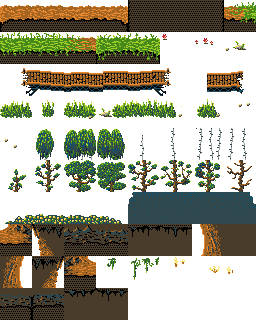
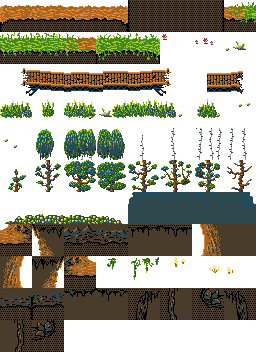
new level and tileset for caves

diff --git a/lib/game/levels/e1m2.js b/lib/game/levels/e1m2.js
@@ -1,0 +1,6 @@
+ig.module( 'game.levels.e1m2' )
+.requires( 'impact.image','game.entities.checkpointStart','plusplus.entities.void' )
+.defines(function(){
+LevelE1m2=/*JSON[*/{"entities":[{"type":"EntityCheckpointStart","x":188,"y":84},{"type":"EntityVoid","x":36,"y":12}],"layer":[{"name":"sky","width":1,"height":1,"linkWithCollision":false,"visible":1,"tilesetName":"media/gfx/maps/skybox.png","repeat":true,"preRender":true,"distance":"1","tilesize":32,"foreground":false,"data":[[15]]},{"name":"skybox","width":12,"height":18,"linkWithCollision":false,"visible":1,"tilesetName":"media/gfx/maps/skybox.png","repeat":true,"preRender":true,"distance":"1.5","tilesize":32,"foreground":false,"data":[[1,1,1,1,1,1,1,1,1,1,1,1],[5,5,5,6,5,6,6,5,5,6,6,5],[0,0,0,0,0,0,0,0,0,0,0,0],[10,9,9,10,9,10,9,10,9,10,9,10],[13,13,13,13,13,13,13,13,13,13,13,13],[13,13,13,13,13,13,13,13,13,13,13,13],[13,13,13,13,13,13,13,13,13,13,13,13],[13,13,13,13,13,13,13,13,13,13,13,13],[13,13,13,13,13,13,13,13,13,13,13,13],[13,13,13,13,13,13,13,13,13,13,13,13],[13,13,13,13,13,13,13,13,13,13,13,13],[13,13,13,13,13,13,13,13,13,13,13,13],[13,13,13,13,13,13,13,13,13,13,13,13],[2,2,2,2,2,2,2,2,2,2,2,2],[2,2,2,2,2,2,2,2,2,2,2,2],[2,2,2,2,2,2,2,2,2,2,2,2],[2,2,2,2,2,2,2,2,2,2,2,2],[2,2,2,2,2,2,2,2,2,2,2,2]]},{"name":"terrain_main","width":45,"height":45,"linkWithCollision":false,"visible":true,"tilesetName":"media/gfx/maps/forest.png","repeat":false,"preRender":true,"distance":"1","tilesize":32,"foreground":false,"data":[[6,6,7,0,0,0,0,0,0,0,0,0,0,0,0,0,0,0,0,0,0,0,0,0,0,0,0,0,0,0,0,0,0,0,0,0,5,6,6,6,6,6,6,6,6],[6,6,7,0,0,0,0,0,0,0,0,0,0,0,0,0,0,0,0,0,0,0,0,0,0,0,0,0,0,0,0,0,0,0,0,0,5,6,6,6,6,6,6,6,6],[6,6,7,0,0,0,0,0,0,0,0,0,0,0,0,0,0,0,0,0,0,0,0,0,0,0,0,0,0,0,0,0,0,0,0,0,58,62,61,62,61,62,61,80,6],[6,6,7,0,0,0,0,0,0,0,0,0,0,0,0,0,0,0,0,0,0,0,0,0,0,0,0,0,0,0,0,0,0,0,0,0,63,64,64,64,64,64,64,81,6],[6,6,6,2,3,3,3,2,3,2,2,4,0,0,0,0,0,0,0,0,0,1,3,3,3,3,2,2,2,3,3,3,3,3,3,3,57,59,59,73,64,64,74,82,6],[6,6,6,6,6,6,6,6,6,6,6,7,0,0,0,0,0,0,0,0,0,5,6,6,6,6,6,6,6,6,6,6,6,6,6,6,6,6,6,7,64,64,5,6,6],[6,6,77,62,62,62,62,62,62,62,62,66,0,0,0,0,0,0,0,0,0,5,6,6,6,6,6,6,6,6,6,6,6,6,6,6,6,6,6,7,64,64,5,6,6],[6,6,78,64,64,64,64,64,64,64,64,65,0,0,0,0,0,0,0,0,0,58,61,62,61,61,61,62,61,61,61,62,62,61,61,80,6,6,6,7,64,64,5,6,6],[6,6,79,60,60,73,64,74,60,60,60,67,3,3,3,3,3,4,0,0,0,63,64,64,64,64,64,64,64,64,64,64,64,64,64,81,6,6,6,7,64,64,5,6,6],[6,6,6,6,6,7,64,5,6,6,6,6,6,6,6,6,6,6,3,3,3,57,59,60,60,60,59,60,73,64,64,74,60,60,59,82,6,6,6,6,59,59,6,6,6],[6,6,6,77,62,75,64,76,62,61,62,61,80,6,6,6,6,6,6,6,6,6,6,6,6,6,6,6,7,64,64,5,6,6,6,6,6,6,6,6,6,6,6,6,6],[6,6,6,78,64,64,64,64,64,64,64,64,81,6,6,6,6,6,6,6,6,6,6,6,6,6,6,6,7,64,64,5,6,6,6,6,6,6,6,6,6,6,6,6,6],[6,6,6,79,59,60,60,59,73,64,74,60,82,6,6,6,6,6,6,6,6,6,6,6,77,61,62,61,75,64,64,5,6,6,6,6,6,6,6,6,6,6,6,6,6],[6,6,6,6,6,6,6,6,7,64,5,6,6,6,6,6,6,6,6,6,6,6,6,6,78,64,64,64,64,64,64,5,6,6,6,6,6,6,6,6,6,6,6,6,6],[6,6,6,6,6,6,6,6,7,64,5,6,6,6,6,6,6,6,6,6,6,6,6,6,79,59,60,59,60,73,64,5,6,6,6,6,6,6,6,6,6,6,6,6,6],[6,6,6,6,6,77,62,61,75,64,76,62,61,62,61,80,6,6,6,6,6,6,6,6,6,6,6,6,6,77,64,76,61,62,62,61,62,61,61,61,80,6,6,6,6],[6,6,6,6,6,78,64,64,64,64,64,64,64,64,64,81,6,6,6,6,6,6,6,6,6,6,6,6,6,78,64,64,64,64,64,64,64,64,64,64,81,6,6,6,6],[6,6,6,6,6,79,59,60,60,59,60,59,59,60,59,82,6,6,6,6,6,6,6,6,6,6,6,6,6,79,59,60,60,60,59,60,59,60,59,59,82,6,6,6,6],[6,6,6,6,6,6,6,6,6,6,6,6,6,6,6,6,6,6,6,6,6,6,6,6,6,6,6,6,6,6,6,6,6,6,6,6,6,6,6,6,6,6,6,6,6],[6,6,6,6,6,6,6,6,6,6,6,6,6,6,6,6,6,6,6,6,6,6,6,6,6,6,6,6,6,6,6,6,6,6,6,6,6,6,6,6,6,6,6,6,6],[6,6,6,6,6,6,6,6,6,6,6,6,6,6,6,6,6,6,6,6,6,6,6,6,6,6,6,6,6,6,6,6,6,6,6,6,6,6,6,6,6,6,6,6,6],[6,6,6,6,6,6,6,6,6,6,6,6,6,6,6,6,6,6,6,6,6,6,6,6,6,6,6,6,6,6,6,6,6,6,6,6,6,6,6,6,6,6,6,6,6],[0,0,0,0,0,0,0,0,0,0,0,0,0,0,0,0,0,0,0,0,0,0,0,0,0,0,0,0,0,0,0,0,0,0,0,0,0,0,0,0,0,0,0,0,0],[0,0,0,0,0,0,0,0,0,0,0,0,0,0,0,0,0,0,0,0,0,0,0,0,0,0,0,0,0,0,0,0,0,0,0,0,0,0,0,0,0,0,0,0,0],[0,0,0,0,0,0,0,0,0,0,0,0,0,0,0,0,0,0,0,0,0,0,0,0,0,0,0,0,0,0,0,0,0,0,0,0,0,0,0,0,0,0,0,0,0],[0,0,0,0,0,0,0,0,0,0,0,0,0,0,0,0,0,0,0,0,0,0,0,0,0,0,0,0,0,0,0,0,0,0,0,0,0,0,0,0,0,0,0,0,0],[0,0,0,0,0,0,0,0,0,0,0,0,0,0,0,0,0,0,0,0,0,0,0,0,0,0,0,0,0,0,0,0,0,0,0,0,0,0,0,0,0,0,0,0,0],[0,0,0,0,0,0,0,0,0,0,0,0,0,0,0,0,0,0,0,0,0,0,0,0,0,0,0,0,0,0,0,0,0,0,0,0,0,0,0,0,0,0,0,0,0],[0,0,0,0,0,0,0,0,0,0,0,0,0,0,0,0,0,0,0,0,0,0,0,0,0,0,0,0,0,0,0,0,0,0,0,0,0,0,0,0,0,0,0,0,0],[0,0,0,0,0,0,0,0,0,0,0,0,0,0,0,0,0,0,0,0,0,0,0,0,0,0,0,0,0,0,0,0,0,0,0,0,0,0,0,0,0,0,0,0,0],[0,0,0,0,0,0,0,0,0,0,0,0,0,0,0,0,0,0,0,0,0,0,0,0,0,0,0,0,0,0,0,0,0,0,0,0,0,0,0,0,0,0,0,0,0],[0,0,0,0,0,0,0,0,0,0,0,0,0,0,0,0,0,0,0,0,0,0,0,0,0,0,0,0,0,0,0,0,0,0,0,0,0,0,0,0,0,0,0,0,0],[0,0,0,0,0,0,0,0,0,0,0,0,0,0,0,0,0,0,0,0,0,0,0,0,0,0,0,0,0,0,0,0,0,0,0,0,0,0,0,0,0,0,0,0,0],[0,0,0,0,0,0,0,0,0,0,0,0,0,0,0,0,0,0,0,0,0,0,0,0,0,0,0,0,0,0,0,0,0,0,0,0,0,0,0,0,0,0,0,0,0],[0,0,0,0,0,0,0,0,0,0,0,0,0,0,0,0,0,0,0,0,0,0,0,0,0,0,0,0,0,0,0,0,0,0,0,0,0,0,0,0,0,0,0,0,0],[0,0,0,0,0,0,0,0,0,0,0,0,0,0,0,0,0,0,0,0,0,0,0,0,0,0,0,0,0,0,0,0,0,0,0,0,0,0,0,0,0,0,0,0,0],[0,0,0,0,0,0,0,0,0,0,0,0,0,0,0,0,0,0,0,0,0,0,0,0,0,0,0,0,0,0,0,0,0,0,0,0,0,0,0,0,0,0,0,0,0],[0,0,0,0,0,0,0,0,0,0,0,0,0,0,0,0,0,0,0,0,0,0,0,0,0,0,0,0,0,0,0,0,0,0,0,0,0,0,0,0,0,0,0,0,0],[0,0,0,0,0,0,0,0,0,0,0,0,0,0,0,0,0,0,0,0,0,0,0,0,0,0,0,0,0,0,0,0,0,0,0,0,0,0,0,0,0,0,0,0,0],[0,0,0,0,0,0,0,0,0,0,0,0,0,0,0,0,0,0,0,0,0,0,0,0,0,0,0,0,0,0,0,0,0,0,0,0,0,0,0,0,0,0,0,0,0],[0,0,0,0,0,0,0,0,0,0,0,0,0,0,0,0,0,0,0,0,0,0,0,0,0,0,0,0,0,0,0,0,0,0,0,0,0,0,0,0,0,0,0,0,0],[0,0,0,0,0,0,0,0,0,0,0,0,0,0,0,0,0,0,0,0,0,0,0,0,0,0,0,0,0,0,0,0,0,0,0,0,0,0,0,0,0,0,0,0,0],[0,0,0,0,0,0,0,0,0,0,0,0,0,0,0,0,0,0,0,0,0,0,0,0,0,0,0,0,0,0,0,0,0,0,0,0,0,0,0,0,0,0,0,0,0],[0,0,0,0,0,0,0,0,0,0,0,0,0,0,0,0,0,0,0,0,0,0,0,0,0,0,0,0,0,0,0,0,0,0,0,0,0,0,0,0,0,0,0,0,0],[0,0,0,0,0,0,0,0,0,0,0,0,0,0,0,0,0,0,0,0,0,0,0,0,0,0,0,0,0,0,0,0,0,0,0,0,0,0,0,0,0,0,0,0,0]]},{"name":"eye_candy_back","width":45,"height":45,"linkWithCollision":false,"visible":true,"tilesetName":"media/gfx/maps/forest.png","repeat":false,"preRender":true,"distance":"1","tilesize":32,"foreground":false,"data":[[0,0,0,0,0,0,0,0,0,0,0,0,0,0,0,0,0,0,0,0,0,0,0,0,0,0,0,0,0,0,0,0,0,0,0,0,0,0,0,0,0,0,0,0,0],[0,0,0,0,0,0,0,0,0,0,0,0,0,0,0,0,0,0,0,0,0,0,0,0,0,0,0,0,0,0,0,0,0,0,0,0,0,0,0,0,0,0,0,0,0],[0,0,0,0,0,0,0,0,0,0,0,0,0,0,0,0,0,0,0,0,0,0,0,0,0,0,0,0,0,0,0,0,0,0,0,0,0,68,0,68,69,68,69,0,0],[0,0,0,0,0,0,0,0,0,0,0,0,0,0,0,0,0,0,0,0,0,0,0,0,0,0,0,0,0,0,0,0,0,0,0,0,0,0,0,0,0,0,0,0,0],[0,0,0,0,0,0,0,0,0,0,0,0,0,0,0,0,0,0,0,0,0,0,0,0,0,0,0,0,0,0,0,0,0,0,0,0,0,0,72,0,0,0,70,0,0],[0,0,0,0,0,0,0,0,0,0,0,0,0,0,0,0,0,0,0,0,0,0,0,0,0,0,0,0,0,0,0,0,0,0,0,0,0,0,0,0,0,0,0,0,0],[0,0,0,0,0,68,0,0,0,69,0,0,0,0,0,0,0,0,0,0,0,0,0,0,0,0,0,0,0,0,0,0,0,0,0,0,0,0,0,0,0,0,0,0,0],[0,0,0,0,0,0,0,0,0,0,0,0,0,0,0,0,0,0,0,0,0,0,0,69,68,0,0,0,0,68,0,0,0,69,69,0,0,0,0,0,0,0,0,0,0],[0,0,0,72,0,0,0,0,70,0,0,0,0,0,0,0,0,0,0,0,0,0,0,0,0,0,0,0,0,0,0,0,0,0,0,0,0,0,0,0,0,0,0,0,0],[0,0,0,0,0,0,0,0,0,0,0,0,0,0,0,0,0,0,0,0,0,0,0,0,71,0,0,0,0,0,0,0,72,0,70,0,0,0,0,0,0,0,0,0,0],[0,0,0,0,68,0,0,69,0,0,68,0,0,0,0,0,0,0,0,0,0,0,0,0,0,0,0,0,0,0,0,0,0,0,0,0,0,0,0,0,0,0,0,0,0],[0,0,0,0,0,0,0,0,0,0,0,0,0,0,0,0,0,0,0,0,0,0,0,0,0,0,0,0,0,0,0,0,0,0,0,0,0,0,0,0,0,0,0,0,0],[0,0,0,0,70,0,0,0,0,0,0,71,0,0,0,0,0,0,0,0,0,0,0,0,0,68,0,0,69,0,0,0,0,0,0,0,0,0,0,0,0,0,0,0,0],[0,0,0,0,0,0,0,0,0,0,0,0,0,0,0,0,0,0,0,0,0,0,0,0,0,0,0,0,0,0,0,0,0,0,0,0,0,0,0,0,0,0,0,0,0],[0,0,0,0,0,0,0,0,0,0,0,0,0,0,0,0,0,0,0,0,0,0,0,0,71,0,0,0,0,0,0,0,0,0,0,0,0,0,0,0,0,0,0,0,0],[0,0,0,0,0,0,69,0,0,0,68,0,69,69,0,0,0,0,0,0,0,0,0,0,0,0,0,0,0,0,0,0,0,69,68,0,0,68,0,68,0,0,0,0,0],[0,0,0,0,0,0,0,0,0,0,0,0,0,0,0,0,0,0,0,0,0,0,0,0,0,0,0,0,0,0,0,0,0,0,0,0,0,0,0,0,0,0,0,0,0],[0,0,0,0,0,0,0,70,0,0,0,0,0,0,72,0,0,0,0,0,0,0,0,0,0,0,0,0,0,0,0,0,70,0,0,0,72,0,0,71,0,0,0,0,0],[0,0,0,0,0,0,0,0,0,0,0,0,0,0,0,0,0,0,0,0,0,0,0,0,0,0,0,0,0,0,0,0,0,0,0,0,0,0,0,0,0,0,0,0,0],[0,0,0,0,0,0,0,0,0,0,0,0,0,0,0,0,0,0,0,0,0,0,0,0,0,0,0,0,0,0,0,0,0,0,0,0,0,0,0,0,0,0,0,0,0],[0,0,0,0,0,0,0,0,0,0,0,0,0,0,0,0,0,0,0,0,0,0,0,0,0,0,0,0,0,0,0,0,0,0,0,0,0,0,0,0,0,0,0,0,0],[0,0,0,0,0,0,0,0,0,0,0,0,0,0,0,0,0,0,0,0,0,0,0,0,0,0,0,0,0,0,0,0,0,0,0,0,0,0,0,0,0,0,0,0,0],[0,0,0,0,0,0,0,0,0,0,0,0,0,0,0,0,0,0,0,0,0,0,0,0,0,0,0,0,0,0,0,0,0,0,0,0,0,0,0,0,0,0,0,0,0],[0,0,0,0,0,0,0,0,0,0,0,0,0,0,0,0,0,0,0,0,0,0,0,0,0,0,0,0,0,0,0,0,0,0,0,0,0,0,0,0,0,0,0,0,0],[0,0,0,0,0,0,0,0,0,0,0,0,0,0,0,0,0,0,0,0,0,0,0,0,0,0,0,0,0,0,0,0,0,0,0,0,0,0,0,0,0,0,0,0,0],[0,0,0,0,0,0,0,0,0,0,0,0,0,0,0,0,0,0,0,0,0,0,0,0,0,0,0,0,0,0,0,0,0,0,0,0,0,0,0,0,0,0,0,0,0],[0,0,0,0,0,0,0,0,0,0,0,0,0,0,0,0,0,0,0,0,0,0,0,0,0,0,0,0,0,0,0,0,0,0,0,0,0,0,0,0,0,0,0,0,0],[0,0,0,0,0,0,0,0,0,0,0,0,0,0,0,0,0,0,0,0,0,0,0,0,0,0,0,0,0,0,0,0,0,0,0,0,0,0,0,0,0,0,0,0,0],[0,0,0,0,0,0,0,0,0,0,0,0,0,0,0,0,0,0,0,0,0,0,0,0,0,0,0,0,0,0,0,0,0,0,0,0,0,0,0,0,0,0,0,0,0],[0,0,0,0,0,0,0,0,0,0,0,0,0,0,0,0,0,0,0,0,0,0,0,0,0,0,0,0,0,0,0,0,0,0,0,0,0,0,0,0,0,0,0,0,0],[0,0,0,0,0,0,0,0,0,0,0,0,0,0,0,0,0,0,0,0,0,0,0,0,0,0,0,0,0,0,0,0,0,0,0,0,0,0,0,0,0,0,0,0,0],[0,0,0,0,0,0,0,0,0,0,0,0,0,0,0,0,0,0,0,0,0,0,0,0,0,0,0,0,0,0,0,0,0,0,0,0,0,0,0,0,0,0,0,0,0],[0,0,0,0,0,0,0,0,0,0,0,0,0,0,0,0,0,0,0,0,0,0,0,0,0,0,0,0,0,0,0,0,0,0,0,0,0,0,0,0,0,0,0,0,0],[0,0,0,0,0,0,0,0,0,0,0,0,0,0,0,0,0,0,0,0,0,0,0,0,0,0,0,0,0,0,0,0,0,0,0,0,0,0,0,0,0,0,0,0,0],[0,0,0,0,0,0,0,0,0,0,0,0,0,0,0,0,0,0,0,0,0,0,0,0,0,0,0,0,0,0,0,0,0,0,0,0,0,0,0,0,0,0,0,0,0],[0,0,0,0,0,0,0,0,0,0,0,0,0,0,0,0,0,0,0,0,0,0,0,0,0,0,0,0,0,0,0,0,0,0,0,0,0,0,0,0,0,0,0,0,0],[0,0,0,0,0,0,0,0,0,0,0,0,0,0,0,0,0,0,0,0,0,0,0,0,0,0,0,0,0,0,0,0,0,0,0,0,0,0,0,0,0,0,0,0,0],[0,0,0,0,0,0,0,0,0,0,0,0,0,0,0,0,0,0,0,0,0,0,0,0,0,0,0,0,0,0,0,0,0,0,0,0,0,0,0,0,0,0,0,0,0],[0,0,0,0,0,0,0,0,0,0,0,0,0,0,0,0,0,0,0,0,0,0,0,0,0,0,0,0,0,0,0,0,0,0,0,0,0,0,0,0,0,0,0,0,0],[0,0,0,0,0,0,0,0,0,0,0,0,0,0,0,0,0,0,0,0,0,0,0,0,0,0,0,0,0,0,0,0,0,0,0,0,0,0,0,0,0,0,0,0,0],[0,0,0,0,0,0,0,0,0,0,0,0,0,0,0,0,0,0,0,0,0,0,0,0,0,0,0,0,0,0,0,0,0,0,0,0,0,0,0,0,0,0,0,0,0],[0,0,0,0,0,0,0,0,0,0,0,0,0,0,0,0,0,0,0,0,0,0,0,0,0,0,0,0,0,0,0,0,0,0,0,0,0,0,0,0,0,0,0,0,0],[0,0,0,0,0,0,0,0,0,0,0,0,0,0,0,0,0,0,0,0,0,0,0,0,0,0,0,0,0,0,0,0,0,0,0,0,0,0,0,0,0,0,0,0,0],[0,0,0,0,0,0,0,0,0,0,0,0,0,0,0,0,0,0,0,0,0,0,0,0,0,0,0,0,0,0,0,0,0,0,0,0,0,0,0,0,0,0,0,0,0],[0,0,0,0,0,0,0,0,0,0,0,0,0,0,0,0,0,0,0,0,0,0,0,0,0,0,0,0,0,0,0,0,0,0,0,0,0,0,0,0,0,0,0,0,0]]},{"name":"collision","width":90,"height":90,"linkWithCollision":false,"visible":0,"tilesetName":"","repeat":false,"preRender":false,"distance":1,"tilesize":16,"foreground":true,"data":[[0,0,0,0,0,1,0,0,0,0,0,0,0,0,0,0,0,0,0,0,0,0,0,0,0,0,0,0,0,0,0,0,0,0,0,0,0,0,0,0,0,0,0,0,0,0,0,0,0,0,0,0,0,0,0,0,0,0,0,0,0,0,0,0,0,0,0,0,0,0,0,0,1,0,0,0,0,0,0,0,0,0,0,0,0,0,0,0,0,0],[0,0,0,0,0,1,0,0,0,0,0,0,0,0,0,0,0,0,0,0,0,0,0,0,0,0,0,0,0,0,0,0,0,0,0,0,0,0,0,0,0,0,0,0,0,0,0,0,0,0,0,0,0,0,0,0,0,0,0,0,0,0,0,0,0,0,0,0,0,0,0,0,1,0,0,0,0,0,0,0,0,0,0,0,0,0,0,0,0,0],[0,0,0,0,0,1,0,0,0,0,0,0,0,0,0,0,0,0,0,0,0,0,0,0,0,0,0,0,0,0,0,0,0,0,0,0,0,0,0,0,0,0,0,0,0,0,0,0,0,0,0,0,0,0,0,0,0,0,0,0,0,0,0,0,0,0,0,0,0,0,0,0,1,0,0,0,0,0,0,0,0,0,0,0,0,0,0,0,0,0],[0,0,0,0,0,1,0,0,0,0,0,0,0,0,0,0,0,0,0,0,0,0,0,0,0,0,0,0,0,0,0,0,0,0,0,0,0,0,0,0,0,0,0,0,0,0,0,0,0,0,0,0,0,0,0,0,0,0,0,0,0,0,0,0,0,0,0,0,0,0,0,0,1,1,1,1,1,1,1,1,1,1,1,1,1,1,1,1,0,0],[0,0,0,0,0,1,0,0,0,0,0,0,0,0,0,0,0,0,0,0,0,0,0,0,0,0,0,0,0,0,0,0,0,0,0,0,0,0,0,0,0,0,0,0,0,0,0,0,0,0,0,0,0,0,0,0,0,0,0,0,0,0,0,0,0,0,0,0,0,0,0,0,0,0,0,0,0,0,0,0,0,0,0,0,0,0,0,1,0,0],[0,0,0,0,0,1,0,0,0,0,0,0,0,0,0,0,0,0,0,0,0,0,0,0,0,0,0,0,0,0,0,0,0,0,0,0,0,0,0,0,0,0,0,0,0,0,0,0,0,0,0,0,0,0,0,0,0,0,0,0,0,0,0,0,0,0,0,0,0,0,0,0,0,0,0,0,0,0,0,0,0,0,0,0,0,0,0,1,0,0],[0,0,0,0,0,1,0,0,0,0,0,0,0,0,0,0,0,0,0,0,0,0,0,0,0,0,0,0,0,0,0,0,0,0,0,0,0,0,0,0,0,0,0,0,0,0,0,0,0,0,0,0,0,0,0,0,0,0,0,0,0,0,0,0,0,0,0,0,0,0,0,0,0,0,0,0,0,0,0,0,0,0,0,0,0,0,0,1,0,0],[0,0,0,0,0,1,0,0,0,0,0,0,0,0,0,0,0,0,0,0,0,0,0,0,0,0,0,0,0,0,0,0,0,0,0,0,0,0,0,0,0,0,0,0,0,0,0,0,0,0,0,0,0,0,0,0,0,0,0,0,0,0,0,0,0,0,0,0,0,0,0,0,0,0,0,0,0,0,0,0,0,0,0,0,0,0,0,1,0,0],[0,0,0,0,0,1,0,0,0,0,0,0,0,0,0,0,0,0,0,0,0,0,0,0,0,0,0,0,0,0,0,0,0,0,0,0,0,0,0,0,0,0,0,0,0,0,0,0,0,0,0,0,0,0,0,0,0,0,0,0,0,0,0,0,0,0,0,0,0,0,0,0,0,0,0,0,0,0,0,0,0,0,0,0,0,0,0,1,0,0],[0,0,0,0,0,1,1,1,1,1,1,1,1,1,1,1,1,1,1,1,1,1,1,1,0,0,0,0,0,0,0,0,0,0,0,0,0,0,0,0,0,0,1,1,1,1,1,1,1,1,1,1,1,1,1,1,1,1,1,1,1,1,1,1,1,1,1,1,1,1,1,1,1,1,1,1,1,1,1,1,0,0,0,0,1,1,1,1,0,0],[0,0,0,0,0,0,0,0,0,0,0,0,0,0,0,0,0,0,0,0,0,0,0,1,0,0,0,0,0,0,0,0,0,0,0,0,0,0,0,0,0,0,1,0,0,0,0,0,0,0,0,0,0,0,0,0,0,0,0,0,0,0,0,0,0,0,0,0,0,0,0,0,0,0,0,0,1,1,1,1,0,0,0,0,1,0,0,0,0,0],[0,0,0,0,1,1,1,1,1,1,1,1,1,1,1,1,1,1,1,1,1,1,1,1,0,0,0,0,0,0,0,0,0,0,0,0,0,0,0,0,0,0,1,0,0,0,0,0,0,0,0,0,0,0,0,0,0,0,0,0,0,0,0,0,0,0,0,0,0,0,0,0,0,0,0,0,0,0,0,1,0,0,0,0,1,0,0,0,0,0],[0,0,0,0,1,0,0,0,0,0,0,0,0,0,0,0,0,0,0,0,0,0,0,0,0,0,0,0,0,0,0,0,0,0,0,0,0,0,0,0,0,0,1,0,0,0,0,0,0,0,0,0,0,0,0,0,0,0,0,0,0,0,0,0,0,0,0,0,0,0,0,0,0,0,0,0,0,0,0,1,0,0,0,0,1,0,0,0,0,0],[0,0,0,0,1,0,0,0,0,0,0,0,0,0,0,0,0,0,0,0,0,0,0,0,0,0,0,0,0,0,0,0,0,0,0,0,0,0,0,0,0,0,1,1,1,1,1,1,1,1,1,1,1,1,1,1,1,1,1,1,1,1,1,1,1,1,1,1,1,1,1,1,0,0,0,0,0,0,0,1,0,0,0,0,1,0,0,0,0,0],[0,0,0,0,1,0,0,0,0,0,0,0,0,0,0,0,0,0,0,0,0,0,0,0,0,0,0,0,0,0,0,0,0,0,0,0,0,0,0,0,0,0,0,0,0,0,0,0,0,0,0,0,0,0,0,0,0,0,0,0,0,0,0,0,0,0,0,0,0,0,0,1,0,0,0,0,0,0,0,1,0,0,0,0,1,0,0,0,0,0],[0,0,0,0,1,0,0,0,0,0,0,0,0,0,0,0,0,0,0,0,0,0,0,0,0,0,0,0,0,0,0,0,0,0,0,0,0,0,0,0,0,0,0,0,0,0,0,0,0,0,0,0,0,0,0,0,0,0,0,0,0,0,0,0,0,0,0,0,0,0,0,1,0,0,0,0,0,0,0,1,0,0,0,0,1,0,0,0,0,0],[0,0,0,0,1,0,0,0,0,0,0,0,0,0,0,0,0,0,0,0,0,0,0,0,0,0,0,0,0,0,0,0,0,0,0,0,0,0,0,0,0,0,0,0,0,0,0,0,0,0,0,0,0,0,0,0,0,0,0,0,0,0,0,0,0,0,0,0,0,0,0,1,0,0,0,0,0,0,0,1,0,0,0,0,1,0,0,0,0,0],[0,0,0,0,1,1,1,1,1,1,1,1,0,0,1,1,1,1,1,1,1,1,1,1,1,1,1,1,1,1,1,1,1,1,1,1,0,0,0,0,0,0,0,0,0,0,0,0,0,0,0,0,0,0,0,0,0,0,0,0,0,0,0,0,0,0,0,0,0,0,0,1,0,0,0,0,0,0,0,1,0,0,0,0,1,0,0,0,0,0],[0,0,0,0,0,0,0,0,0,0,0,1,0,0,1,0,0,0,0,0,0,0,0,0,0,0,0,0,0,0,0,0,0,0,0,1,0,0,0,0,0,0,0,0,0,0,0,0,0,0,0,0,0,0,0,0,0,0,0,0,0,0,0,0,0,0,0,0,0,0,0,1,0,0,0,0,0,0,0,1,0,0,0,0,1,0,0,0,0,0],[0,0,0,0,0,1,1,1,1,1,1,1,0,0,1,1,1,1,1,1,1,1,1,1,1,1,0,0,0,0,0,0,0,0,0,1,1,1,1,1,1,1,1,1,1,1,1,1,1,1,1,1,1,1,1,1,1,1,0,0,0,0,1,1,1,1,1,1,1,1,1,1,0,0,0,0,0,0,0,1,1,1,1,1,1,0,0,0,0,0],[0,0,0,0,0,0,1,0,0,0,0,0,0,0,0,0,0,0,0,0,0,0,0,0,0,1,0,0,0,0,0,0,0,0,0,0,0,0,0,0,0,0,0,0,0,0,0,0,0,0,0,0,0,0,0,0,0,1,0,0,0,0,1,0,0,0,0,0,0,0,0,0,0,0,0,0,0,0,0,0,0,0,0,0,0,0,0,0,0,0],[0,0,0,0,0,0,1,0,0,0,0,0,0,0,0,0,0,0,0,0,0,0,0,0,0,1,0,0,0,0,0,0,0,0,0,0,0,0,0,0,0,0,0,0,0,0,0,0,0,0,0,0,0,0,0,0,0,1,0,0,0,0,1,0,0,0,0,0,0,0,0,0,0,0,0,0,0,0,0,0,0,0,0,0,0,0,0,0,0,0],[0,0,0,0,0,0,1,0,0,0,0,0,0,0,0,0,0,0,0,0,0,0,0,0,0,1,0,0,0,0,0,0,0,0,0,0,0,0,0,0,0,0,0,0,0,0,0,0,0,0,0,0,0,0,0,0,0,1,0,0,0,0,1,0,0,0,0,0,0,0,0,0,0,0,0,0,0,0,0,0,0,0,0,0,0,0,0,0,0,0],[0,0,0,0,0,0,1,0,0,0,0,0,0,0,0,0,0,0,0,0,0,0,0,0,0,1,0,0,0,0,0,0,0,0,0,0,0,0,0,0,0,0,0,0,0,0,0,0,1,1,1,1,1,1,1,1,1,1,0,0,0,0,1,0,0,0,0,0,0,0,0,0,0,0,0,0,0,0,0,0,0,0,0,0,0,0,0,0,0,0],[0,0,0,0,0,0,1,0,0,0,0,0,0,0,0,0,0,0,0,0,0,0,0,0,0,1,0,0,0,0,0,0,0,0,0,0,0,0,0,0,0,0,0,0,0,0,0,0,1,0,0,0,0,0,0,0,0,0,0,0,0,0,1,0,0,0,0,0,0,0,0,0,0,0,0,0,0,0,0,0,0,0,0,0,0,0,0,0,0,0],[0,0,0,0,0,0,1,1,1,1,1,1,1,1,1,1,1,1,0,0,1,1,1,1,1,1,0,0,0,0,0,0,0,0,0,0,0,0,0,0,0,0,0,0,0,0,0,0,1,0,0,0,0,0,0,0,0,0,0,0,0,0,1,0,0,0,0,0,0,0,0,0,0,0,0,0,0,0,0,0,0,0,0,0,0,0,0,0,0,0],[0,0,0,0,0,0,0,0,0,0,0,0,0,0,0,0,0,1,0,0,1,0,0,0,0,0,0,0,0,0,0,0,0,0,0,0,0,0,0,0,0,0,0,0,0,0,0,0,1,0,0,0,0,0,0,0,0,0,0,0,0,0,1,0,0,0,0,0,0,0,0,0,0,0,0,0,0,0,0,0,0,0,0,0,0,0,0,0,0,0],[0,0,0,0,0,0,0,0,0,0,0,0,0,0,0,0,0,1,0,0,1,0,0,0,0,0,0,0,0,0,0,0,0,0,0,0,0,0,0,0,0,0,0,0,0,0,0,0,1,0,0,0,0,0,0,0,0,0,0,0,0,0,1,0,0,0,0,0,0,0,0,0,0,0,0,0,0,0,0,0,0,0,0,0,0,0,0,0,0,0],[0,0,0,0,0,0,0,0,0,0,0,0,0,0,0,0,0,1,0,0,1,0,0,0,0,0,0,0,0,0,0,0,0,0,0,0,0,0,0,0,0,0,0,0,0,0,0,0,1,0,0,0,0,0,0,0,0,0,0,0,0,0,1,0,0,0,0,0,0,0,0,0,0,0,0,0,0,0,0,0,0,0,0,0,0,0,0,0,0,0],[0,0,0,0,0,0,0,0,0,1,1,1,1,1,1,1,1,1,0,0,1,1,1,1,1,1,1,1,1,1,1,1,1,0,0,0,0,0,0,0,0,0,0,0,0,0,0,0,1,1,1,1,1,1,1,1,1,1,1,1,0,0,1,1,1,1,1,1,1,1,1,1,1,1,1,1,1,1,1,1,1,1,0,0,0,0,0,0,0,0],[0,0,0,0,0,0,0,0,0,0,1,0,0,0,0,0,0,0,0,0,0,0,0,0,0,0,0,0,0,0,0,1,0,0,0,0,0,0,0,0,0,0,0,0,0,0,0,0,0,0,0,0,0,0,0,0,0,0,1,0,0,0,0,0,0,0,0,0,0,0,0,0,0,0,0,0,0,0,0,0,0,1,0,0,0,0,0,0,0,0],[0,0,0,0,0,0,0,0,0,0,1,0,0,0,0,0,0,0,0,0,0,0,0,0,0,0,0,0,0,0,0,1,0,0,0,0,0,0,0,0,0,0,0,0,0,0,0,0,0,0,0,0,0,0,0,0,0,0,1,0,0,0,0,0,0,0,0,0,0,0,0,0,0,0,0,0,0,0,0,0,0,1,0,0,0,0,0,0,0,0],[0,0,0,0,0,0,0,0,0,0,1,0,0,0,0,0,0,0,0,0,0,0,0,0,0,0,0,0,0,0,0,1,0,0,0,0,0,0,0,0,0,0,0,0,0,0,0,0,0,0,0,0,0,0,0,0,0,0,1,0,0,0,0,0,0,0,0,0,0,0,0,0,0,0,0,0,0,0,0,0,0,1,0,0,0,0,0,0,0,0],[0,0,0,0,0,0,0,0,0,0,1,0,0,0,0,0,0,0,0,0,0,0,0,0,0,0,0,0,0,0,0,1,0,0,0,0,0,0,0,0,0,0,0,0,0,0,0,0,0,0,0,0,0,0,0,0,0,0,1,0,0,0,0,0,0,0,0,0,0,0,0,0,0,0,0,0,0,0,0,0,0,1,0,0,0,0,0,0,0,0],[0,0,0,0,0,0,0,0,0,0,1,0,0,0,0,0,0,0,0,0,0,0,0,0,0,0,0,0,0,0,0,1,0,0,0,0,0,0,0,0,0,0,0,0,0,0,0,0,0,0,0,0,0,0,0,0,0,0,1,0,0,0,0,0,0,0,0,0,0,0,0,0,0,0,0,0,0,0,0,0,0,1,0,0,0,0,0,0,0,0],[0,0,0,0,0,0,0,0,0,0,1,1,1,1,1,1,1,1,1,1,1,1,1,1,1,1,1,1,1,1,1,1,0,0,0,0,0,0,0,0,0,0,0,0,0,0,0,0,0,0,0,0,0,0,0,0,0,0,1,1,1,1,1,1,1,1,1,1,1,1,1,1,1,1,1,1,1,1,1,1,1,1,0,0,0,0,0,0,0,0],[0,0,0,0,0,0,0,0,0,0,0,0,0,0,0,0,0,0,0,0,0,0,0,0,0,0,0,0,0,0,0,0,0,0,0,0,0,0,0,0,0,0,0,0,0,0,0,0,0,0,0,0,0,0,0,0,0,0,0,0,0,0,0,0,0,0,0,0,0,0,0,0,0,0,0,0,0,0,0,0,0,0,0,0,0,0,0,0,0,0],[0,0,0,0,0,0,0,0,0,0,0,0,0,0,0,0,0,0,0,0,0,0,0,0,0,0,0,0,0,0,0,0,0,0,0,0,0,0,0,0,0,0,0,0,0,0,0,0,0,0,0,0,0,0,0,0,0,0,0,0,0,0,0,0,0,0,0,0,0,0,0,0,0,0,0,0,0,0,0,0,0,0,0,0,0,0,0,0,0,0],[0,0,0,0,0,0,0,0,0,0,0,0,0,0,0,0,0,0,0,0,0,0,0,0,0,0,0,0,0,0,0,0,0,0,0,0,0,0,0,0,0,0,0,0,0,0,0,0,0,0,0,0,0,0,0,0,0,0,0,0,0,0,0,0,0,0,0,0,0,0,0,0,0,0,0,0,0,0,0,0,0,0,0,0,0,0,0,0,0,0],[0,0,0,0,0,0,0,0,0,0,0,0,0,0,0,0,0,0,0,0,0,0,0,0,0,0,0,0,0,0,0,0,0,0,0,0,0,0,0,0,0,0,0,0,0,0,0,0,0,0,0,0,0,0,0,0,0,0,0,0,0,0,0,0,0,0,0,0,0,0,0,0,0,0,0,0,0,0,0,0,0,0,0,0,0,0,0,0,0,0],[0,0,0,0,0,0,0,0,0,0,0,0,0,0,0,0,0,0,0,0,0,0,0,0,0,0,0,0,0,0,0,0,0,0,0,0,0,0,0,0,0,0,0,0,0,0,0,0,0,0,0,0,0,0,0,0,0,0,0,0,0,0,0,0,0,0,0,0,0,0,0,0,0,0,0,0,0,0,0,0,0,0,0,0,0,0,0,0,0,0],[0,0,0,0,0,0,0,0,0,0,0,0,0,0,0,0,0,0,0,0,0,0,0,0,0,0,0,0,0,0,0,0,0,0,0,0,0,0,0,0,0,0,0,0,0,0,0,0,0,0,0,0,0,0,0,0,0,0,0,0,0,0,0,0,0,0,0,0,0,0,0,0,0,0,0,0,0,0,0,0,0,0,0,0,0,0,0,0,0,0],[0,0,0,0,0,0,0,0,0,0,0,0,0,0,0,0,0,0,0,0,0,0,0,0,0,0,0,0,0,0,0,0,0,0,0,0,0,0,0,0,0,0,0,0,0,0,0,0,0,0,0,0,0,0,0,0,0,0,0,0,0,0,0,0,0,0,0,0,0,0,0,0,0,0,0,0,0,0,0,0,0,0,0,0,0,0,0,0,0,0],[0,0,0,0,0,0,0,0,0,0,0,0,0,0,0,0,0,0,0,0,0,0,0,0,0,0,0,0,0,0,0,0,0,0,0,0,0,0,0,0,0,0,0,0,0,0,0,0,0,0,0,0,0,0,0,0,0,0,0,0,0,0,0,0,0,0,0,0,0,0,0,0,0,0,0,0,0,0,0,0,0,0,0,0,0,0,0,0,0,0],[0,0,0,0,0,0,0,0,0,0,0,0,0,0,0,0,0,0,0,0,0,0,0,0,0,0,0,0,0,0,0,0,0,0,0,0,0,0,0,0,0,0,0,0,0,0,0,0,0,0,0,0,0,0,0,0,0,0,0,0,0,0,0,0,0,0,0,0,0,0,0,0,0,0,0,0,0,0,0,0,0,0,0,0,0,0,0,0,0,0],[0,0,0,0,0,0,0,0,0,0,0,0,0,0,0,0,0,0,0,0,0,0,0,0,0,0,0,0,0,0,0,0,0,0,0,0,0,0,0,0,0,0,0,0,0,0,0,0,0,0,0,0,0,0,0,0,0,0,0,0,0,0,0,0,0,0,0,0,0,0,0,0,0,0,0,0,0,0,0,0,0,0,0,0,0,0,0,0,0,0],[0,0,0,0,0,0,0,0,0,0,0,0,0,0,0,0,0,0,0,0,0,0,0,0,0,0,0,0,0,0,0,0,0,0,0,0,0,0,0,0,0,0,0,0,0,0,0,0,0,0,0,0,0,0,0,0,0,0,0,0,0,0,0,0,0,0,0,0,0,0,0,0,0,0,0,0,0,0,0,0,0,0,0,0,0,0,0,0,0,0],[0,0,0,0,0,0,0,0,0,0,0,0,0,0,0,0,0,0,0,0,0,0,0,0,0,0,0,0,0,0,0,0,0,0,0,0,0,0,0,0,0,0,0,0,0,0,0,0,0,0,0,0,0,0,0,0,0,0,0,0,0,0,0,0,0,0,0,0,0,0,0,0,0,0,0,0,0,0,0,0,0,0,0,0,0,0,0,0,0,0],[0,0,0,0,0,0,0,0,0,0,0,0,0,0,0,0,0,0,0,0,0,0,0,0,0,0,0,0,0,0,0,0,0,0,0,0,0,0,0,0,0,0,0,0,0,0,0,0,0,0,0,0,0,0,0,0,0,0,0,0,0,0,0,0,0,0,0,0,0,0,0,0,0,0,0,0,0,0,0,0,0,0,0,0,0,0,0,0,0,0],[0,0,0,0,0,0,0,0,0,0,0,0,0,0,0,0,0,0,0,0,0,0,0,0,0,0,0,0,0,0,0,0,0,0,0,0,0,0,0,0,0,0,0,0,0,0,0,0,0,0,0,0,0,0,0,0,0,0,0,0,0,0,0,0,0,0,0,0,0,0,0,0,0,0,0,0,0,0,0,0,0,0,0,0,0,0,0,0,0,0],[0,0,0,0,0,0,0,0,0,0,0,0,0,0,0,0,0,0,0,0,0,0,0,0,0,0,0,0,0,0,0,0,0,0,0,0,0,0,0,0,0,0,0,0,0,0,0,0,0,0,0,0,0,0,0,0,0,0,0,0,0,0,0,0,0,0,0,0,0,0,0,0,0,0,0,0,0,0,0,0,0,0,0,0,0,0,0,0,0,0],[0,0,0,0,0,0,0,0,0,0,0,0,0,0,0,0,0,0,0,0,0,0,0,0,0,0,0,0,0,0,0,0,0,0,0,0,0,0,0,0,0,0,0,0,0,0,0,0,0,0,0,0,0,0,0,0,0,0,0,0,0,0,0,0,0,0,0,0,0,0,0,0,0,0,0,0,0,0,0,0,0,0,0,0,0,0,0,0,0,0],[0,0,0,0,0,0,0,0,0,0,0,0,0,0,0,0,0,0,0,0,0,0,0,0,0,0,0,0,0,0,0,0,0,0,0,0,0,0,0,0,0,0,0,0,0,0,0,0,0,0,0,0,0,0,0,0,0,0,0,0,0,0,0,0,0,0,0,0,0,0,0,0,0,0,0,0,0,0,0,0,0,0,0,0,0,0,0,0,0,0],[0,0,0,0,0,0,0,0,0,0,0,0,0,0,0,0,0,0,0,0,0,0,0,0,0,0,0,0,0,0,0,0,0,0,0,0,0,0,0,0,0,0,0,0,0,0,0,0,0,0,0,0,0,0,0,0,0,0,0,0,0,0,0,0,0,0,0,0,0,0,0,0,0,0,0,0,0,0,0,0,0,0,0,0,0,0,0,0,0,0],[0,0,0,0,0,0,0,0,0,0,0,0,0,0,0,0,0,0,0,0,0,0,0,0,0,0,0,0,0,0,0,0,0,0,0,0,0,0,0,0,0,0,0,0,0,0,0,0,0,0,0,0,0,0,0,0,0,0,0,0,0,0,0,0,0,0,0,0,0,0,0,0,0,0,0,0,0,0,0,0,0,0,0,0,0,0,0,0,0,0],[0,0,0,0,0,0,0,0,0,0,0,0,0,0,0,0,0,0,0,0,0,0,0,0,0,0,0,0,0,0,0,0,0,0,0,0,0,0,0,0,0,0,0,0,0,0,0,0,0,0,0,0,0,0,0,0,0,0,0,0,0,0,0,0,0,0,0,0,0,0,0,0,0,0,0,0,0,0,0,0,0,0,0,0,0,0,0,0,0,0],[0,0,0,0,0,0,0,0,0,0,0,0,0,0,0,0,0,0,0,0,0,0,0,0,0,0,0,0,0,0,0,0,0,0,0,0,0,0,0,0,0,0,0,0,0,0,0,0,0,0,0,0,0,0,0,0,0,0,0,0,0,0,0,0,0,0,0,0,0,0,0,0,0,0,0,0,0,0,0,0,0,0,0,0,0,0,0,0,0,0],[0,0,0,0,0,0,0,0,0,0,0,0,0,0,0,0,0,0,0,0,0,0,0,0,0,0,0,0,0,0,0,0,0,0,0,0,0,0,0,0,0,0,0,0,0,0,0,0,0,0,0,0,0,0,0,0,0,0,0,0,0,0,0,0,0,0,0,0,0,0,0,0,0,0,0,0,0,0,0,0,0,0,0,0,0,0,0,0,0,0],[0,0,0,0,0,0,0,0,0,0,0,0,0,0,0,0,0,0,0,0,0,0,0,0,0,0,0,0,0,0,0,0,0,0,0,0,0,0,0,0,0,0,0,0,0,0,0,0,0,0,0,0,0,0,0,0,0,0,0,0,0,0,0,0,0,0,0,0,0,0,0,0,0,0,0,0,0,0,0,0,0,0,0,0,0,0,0,0,0,0],[0,0,0,0,0,0,0,0,0,0,0,0,0,0,0,0,0,0,0,0,0,0,0,0,0,0,0,0,0,0,0,0,0,0,0,0,0,0,0,0,0,0,0,0,0,0,0,0,0,0,0,0,0,0,0,0,0,0,0,0,0,0,0,0,0,0,0,0,0,0,0,0,0,0,0,0,0,0,0,0,0,0,0,0,0,0,0,0,0,0],[0,0,0,0,0,0,0,0,0,0,0,0,0,0,0,0,0,0,0,0,0,0,0,0,0,0,0,0,0,0,0,0,0,0,0,0,0,0,0,0,0,0,0,0,0,0,0,0,0,0,0,0,0,0,0,0,0,0,0,0,0,0,0,0,0,0,0,0,0,0,0,0,0,0,0,0,0,0,0,0,0,0,0,0,0,0,0,0,0,0],[0,0,0,0,0,0,0,0,0,0,0,0,0,0,0,0,0,0,0,0,0,0,0,0,0,0,0,0,0,0,0,0,0,0,0,0,0,0,0,0,0,0,0,0,0,0,0,0,0,0,0,0,0,0,0,0,0,0,0,0,0,0,0,0,0,0,0,0,0,0,0,0,0,0,0,0,0,0,0,0,0,0,0,0,0,0,0,0,0,0],[0,0,0,0,0,0,0,0,0,0,0,0,0,0,0,0,0,0,0,0,0,0,0,0,0,0,0,0,0,0,0,0,0,0,0,0,0,0,0,0,0,0,0,0,0,0,0,0,0,0,0,0,0,0,0,0,0,0,0,0,0,0,0,0,0,0,0,0,0,0,0,0,0,0,0,0,0,0,0,0,0,0,0,0,0,0,0,0,0,0],[0,0,0,0,0,0,0,0,0,0,0,0,0,0,0,0,0,0,0,0,0,0,0,0,0,0,0,0,0,0,0,0,0,0,0,0,0,0,0,0,0,0,0,0,0,0,0,0,0,0,0,0,0,0,0,0,0,0,0,0,0,0,0,0,0,0,0,0,0,0,0,0,0,0,0,0,0,0,0,0,0,0,0,0,0,0,0,0,0,0],[0,0,0,0,0,0,0,0,0,0,0,0,0,0,0,0,0,0,0,0,0,0,0,0,0,0,0,0,0,0,0,0,0,0,0,0,0,0,0,0,0,0,0,0,0,0,0,0,0,0,0,0,0,0,0,0,0,0,0,0,0,0,0,0,0,0,0,0,0,0,0,0,0,0,0,0,0,0,0,0,0,0,0,0,0,0,0,0,0,0],[0,0,0,0,0,0,0,0,0,0,0,0,0,0,0,0,0,0,0,0,0,0,0,0,0,0,0,0,0,0,0,0,0,0,0,0,0,0,0,0,0,0,0,0,0,0,0,0,0,0,0,0,0,0,0,0,0,0,0,0,0,0,0,0,0,0,0,0,0,0,0,0,0,0,0,0,0,0,0,0,0,0,0,0,0,0,0,0,0,0],[0,0,0,0,0,0,0,0,0,0,0,0,0,0,0,0,0,0,0,0,0,0,0,0,0,0,0,0,0,0,0,0,0,0,0,0,0,0,0,0,0,0,0,0,0,0,0,0,0,0,0,0,0,0,0,0,0,0,0,0,0,0,0,0,0,0,0,0,0,0,0,0,0,0,0,0,0,0,0,0,0,0,0,0,0,0,0,0,0,0],[0,0,0,0,0,0,0,0,0,0,0,0,0,0,0,0,0,0,0,0,0,0,0,0,0,0,0,0,0,0,0,0,0,0,0,0,0,0,0,0,0,0,0,0,0,0,0,0,0,0,0,0,0,0,0,0,0,0,0,0,0,0,0,0,0,0,0,0,0,0,0,0,0,0,0,0,0,0,0,0,0,0,0,0,0,0,0,0,0,0],[0,0,0,0,0,0,0,0,0,0,0,0,0,0,0,0,0,0,0,0,0,0,0,0,0,0,0,0,0,0,0,0,0,0,0,0,0,0,0,0,0,0,0,0,0,0,0,0,0,0,0,0,0,0,0,0,0,0,0,0,0,0,0,0,0,0,0,0,0,0,0,0,0,0,0,0,0,0,0,0,0,0,0,0,0,0,0,0,0,0],[0,0,0,0,0,0,0,0,0,0,0,0,0,0,0,0,0,0,0,0,0,0,0,0,0,0,0,0,0,0,0,0,0,0,0,0,0,0,0,0,0,0,0,0,0,0,0,0,0,0,0,0,0,0,0,0,0,0,0,0,0,0,0,0,0,0,0,0,0,0,0,0,0,0,0,0,0,0,0,0,0,0,0,0,0,0,0,0,0,0],[0,0,0,0,0,0,0,0,0,0,0,0,0,0,0,0,0,0,0,0,0,0,0,0,0,0,0,0,0,0,0,0,0,0,0,0,0,0,0,0,0,0,0,0,0,0,0,0,0,0,0,0,0,0,0,0,0,0,0,0,0,0,0,0,0,0,0,0,0,0,0,0,0,0,0,0,0,0,0,0,0,0,0,0,0,0,0,0,0,0],[0,0,0,0,0,0,0,0,0,0,0,0,0,0,0,0,0,0,0,0,0,0,0,0,0,0,0,0,0,0,0,0,0,0,0,0,0,0,0,0,0,0,0,0,0,0,0,0,0,0,0,0,0,0,0,0,0,0,0,0,0,0,0,0,0,0,0,0,0,0,0,0,0,0,0,0,0,0,0,0,0,0,0,0,0,0,0,0,0,0],[0,0,0,0,0,0,0,0,0,0,0,0,0,0,0,0,0,0,0,0,0,0,0,0,0,0,0,0,0,0,0,0,0,0,0,0,0,0,0,0,0,0,0,0,0,0,0,0,0,0,0,0,0,0,0,0,0,0,0,0,0,0,0,0,0,0,0,0,0,0,0,0,0,0,0,0,0,0,0,0,0,0,0,0,0,0,0,0,0,0],[0,0,0,0,0,0,0,0,0,0,0,0,0,0,0,0,0,0,0,0,0,0,0,0,0,0,0,0,0,0,0,0,0,0,0,0,0,0,0,0,0,0,0,0,0,0,0,0,0,0,0,0,0,0,0,0,0,0,0,0,0,0,0,0,0,0,0,0,0,0,0,0,0,0,0,0,0,0,0,0,0,0,0,0,0,0,0,0,0,0],[0,0,0,0,0,0,0,0,0,0,0,0,0,0,0,0,0,0,0,0,0,0,0,0,0,0,0,0,0,0,0,0,0,0,0,0,0,0,0,0,0,0,0,0,0,0,0,0,0,0,0,0,0,0,0,0,0,0,0,0,0,0,0,0,0,0,0,0,0,0,0,0,0,0,0,0,0,0,0,0,0,0,0,0,0,0,0,0,0,0],[0,0,0,0,0,0,0,0,0,0,0,0,0,0,0,0,0,0,0,0,0,0,0,0,0,0,0,0,0,0,0,0,0,0,0,0,0,0,0,0,0,0,0,0,0,0,0,0,0,0,0,0,0,0,0,0,0,0,0,0,0,0,0,0,0,0,0,0,0,0,0,0,0,0,0,0,0,0,0,0,0,0,0,0,0,0,0,0,0,0],[0,0,0,0,0,0,0,0,0,0,0,0,0,0,0,0,0,0,0,0,0,0,0,0,0,0,0,0,0,0,0,0,0,0,0,0,0,0,0,0,0,0,0,0,0,0,0,0,0,0,0,0,0,0,0,0,0,0,0,0,0,0,0,0,0,0,0,0,0,0,0,0,0,0,0,0,0,0,0,0,0,0,0,0,0,0,0,0,0,0],[0,0,0,0,0,0,0,0,0,0,0,0,0,0,0,0,0,0,0,0,0,0,0,0,0,0,0,0,0,0,0,0,0,0,0,0,0,0,0,0,0,0,0,0,0,0,0,0,0,0,0,0,0,0,0,0,0,0,0,0,0,0,0,0,0,0,0,0,0,0,0,0,0,0,0,0,0,0,0,0,0,0,0,0,0,0,0,0,0,0],[0,0,0,0,0,0,0,0,0,0,0,0,0,0,0,0,0,0,0,0,0,0,0,0,0,0,0,0,0,0,0,0,0,0,0,0,0,0,0,0,0,0,0,0,0,0,0,0,0,0,0,0,0,0,0,0,0,0,0,0,0,0,0,0,0,0,0,0,0,0,0,0,0,0,0,0,0,0,0,0,0,0,0,0,0,0,0,0,0,0],[0,0,0,0,0,0,0,0,0,0,0,0,0,0,0,0,0,0,0,0,0,0,0,0,0,0,0,0,0,0,0,0,0,0,0,0,0,0,0,0,0,0,0,0,0,0,0,0,0,0,0,0,0,0,0,0,0,0,0,0,0,0,0,0,0,0,0,0,0,0,0,0,0,0,0,0,0,0,0,0,0,0,0,0,0,0,0,0,0,0],[0,0,0,0,0,0,0,0,0,0,0,0,0,0,0,0,0,0,0,0,0,0,0,0,0,0,0,0,0,0,0,0,0,0,0,0,0,0,0,0,0,0,0,0,0,0,0,0,0,0,0,0,0,0,0,0,0,0,0,0,0,0,0,0,0,0,0,0,0,0,0,0,0,0,0,0,0,0,0,0,0,0,0,0,0,0,0,0,0,0],[0,0,0,0,0,0,0,0,0,0,0,0,0,0,0,0,0,0,0,0,0,0,0,0,0,0,0,0,0,0,0,0,0,0,0,0,0,0,0,0,0,0,0,0,0,0,0,0,0,0,0,0,0,0,0,0,0,0,0,0,0,0,0,0,0,0,0,0,0,0,0,0,0,0,0,0,0,0,0,0,0,0,0,0,0,0,0,0,0,0],[0,0,0,0,0,0,0,0,0,0,0,0,0,0,0,0,0,0,0,0,0,0,0,0,0,0,0,0,0,0,0,0,0,0,0,0,0,0,0,0,0,0,0,0,0,0,0,0,0,0,0,0,0,0,0,0,0,0,0,0,0,0,0,0,0,0,0,0,0,0,0,0,0,0,0,0,0,0,0,0,0,0,0,0,0,0,0,0,0,0],[0,0,0,0,0,0,0,0,0,0,0,0,0,0,0,0,0,0,0,0,0,0,0,0,0,0,0,0,0,0,0,0,0,0,0,0,0,0,0,0,0,0,0,0,0,0,0,0,0,0,0,0,0,0,0,0,0,0,0,0,0,0,0,0,0,0,0,0,0,0,0,0,0,0,0,0,0,0,0,0,0,0,0,0,0,0,0,0,0,0],[0,0,0,0,0,0,0,0,0,0,0,0,0,0,0,0,0,0,0,0,0,0,0,0,0,0,0,0,0,0,0,0,0,0,0,0,0,0,0,0,0,0,0,0,0,0,0,0,0,0,0,0,0,0,0,0,0,0,0,0,0,0,0,0,0,0,0,0,0,0,0,0,0,0,0,0,0,0,0,0,0,0,0,0,0,0,0,0,0,0],[0,0,0,0,0,0,0,0,0,0,0,0,0,0,0,0,0,0,0,0,0,0,0,0,0,0,0,0,0,0,0,0,0,0,0,0,0,0,0,0,0,0,0,0,0,0,0,0,0,0,0,0,0,0,0,0,0,0,0,0,0,0,0,0,0,0,0,0,0,0,0,0,0,0,0,0,0,0,0,0,0,0,0,0,0,0,0,0,0,0],[0,0,0,0,0,0,0,0,0,0,0,0,0,0,0,0,0,0,0,0,0,0,0,0,0,0,0,0,0,0,0,0,0,0,0,0,0,0,0,0,0,0,0,0,0,0,0,0,0,0,0,0,0,0,0,0,0,0,0,0,0,0,0,0,0,0,0,0,0,0,0,0,0,0,0,0,0,0,0,0,0,0,0,0,0,0,0,0,0,0],[0,0,0,0,0,0,0,0,0,0,0,0,0,0,0,0,0,0,0,0,0,0,0,0,0,0,0,0,0,0,0,0,0,0,0,0,0,0,0,0,0,0,0,0,0,0,0,0,0,0,0,0,0,0,0,0,0,0,0,0,0,0,0,0,0,0,0,0,0,0,0,0,0,0,0,0,0,0,0,0,0,0,0,0,0,0,0,0,0,0],[0,0,0,0,0,0,0,0,0,0,0,0,0,0,0,0,0,0,0,0,0,0,0,0,0,0,0,0,0,0,0,0,0,0,0,0,0,0,0,0,0,0,0,0,0,0,0,0,0,0,0,0,0,0,0,0,0,0,0,0,0,0,0,0,0,0,0,0,0,0,0,0,0,0,0,0,0,0,0,0,0,0,0,0,0,0,0,0,0,0],[0,0,0,0,0,0,0,0,0,0,0,0,0,0,0,0,0,0,0,0,0,0,0,0,0,0,0,0,0,0,0,0,0,0,0,0,0,0,0,0,0,0,0,0,0,0,0,0,0,0,0,0,0,0,0,0,0,0,0,0,0,0,0,0,0,0,0,0,0,0,0,0,0,0,0,0,0,0,0,0,0,0,0,0,0,0,0,0,0,0]]}]}/*]JSON*/;
+LevelE1m2Resources=[new ig.Image('media/gfx/maps/skybox.png'), new ig.Image('media/gfx/maps/skybox.png'), new ig.Image('media/gfx/maps/forest.png'), new ig.Image('media/gfx/maps/forest.png')];
+});

diff --git a/lib/game/levels/e1m1.js b/lib/game/levels/e1m1.js
@@ -1,6 +1,6 @@
 ig.module( 'game.levels.e1m1' )
 .requires( 'impact.image','game.entities.checkpointStart','plusplus.entities.levelchange' )
 .defines(function(){
-LevelE1m1=/*JSON[*/{"entities":[{"type":"EntityCheckpointStart","x":24,"y":212,"settings":{"name":"levelStart"}},{"type":"EntityLevelchange","x":416,"y":176,"settings":{"size":{"x":16,"y":60},"levelName":"sandbox","playerSpawnerName":"levelStart"}}],"layer":[{"name":"terrain","width":42,"height":15,"linkWithCollision":false,"visible":true,"tilesetName":"media/gfx/maps/forest.png","repeat":false,"preRender":false,"distance":"1","tilesize":32,"foreground":false,"data":[[0,0,0,0,0,0,0,0,0,0,0,0,0,0,0,0,0,0,0,0,0,0,0,0,0,0,0,0,0,0,0,0,0,0,0,0,0,0,0,0,0,0],[0,0,0,0,0,0,0,0,0,0,0,0,0,0,0,0,0,0,0,0,0,0,0,0,0,0,0,0,0,0,0,0,0,0,0,0,0,0,0,0,0,0],[0,0,0,0,0,0,0,0,0,0,0,0,0,0,0,0,0,0,0,0,0,0,0,0,0,0,0,0,0,0,0,0,0,0,0,0,0,0,0,0,0,0],[0,0,0,0,0,0,0,0,0,0,0,0,0,0,0,0,0,0,0,0,0,0,0,0,0,0,0,0,0,0,0,0,0,0,0,0,0,0,0,0,0,0],[0,0,0,0,0,0,0,0,0,0,0,0,0,0,0,0,0,0,0,0,0,0,0,0,0,0,0,0,0,0,0,0,0,0,0,0,0,0,0,0,0,0],[0,0,0,0,0,0,0,0,0,0,0,0,0,0,0,0,0,0,0,0,0,0,0,0,0,0,0,0,0,0,0,0,0,0,0,0,0,0,0,0,0,0],[0,0,0,0,0,0,0,0,0,0,0,0,0,0,0,0,0,0,0,0,0,0,0,0,0,0,0,0,0,0,0,0,0,0,0,0,0,0,0,0,0,0],[1,2,2,2,2,2,2,2,2,2,2,2,2,4,0,0,0,0,0,0,0,0,0,0,0,0,0,0,0,0,0,0,0,0,0,0,0,0,0,0,0,0],[5,6,6,6,6,6,6,6,6,6,6,6,6,6,0,0,0,0,0,0,0,0,0,0,0,0,0,0,0,0,0,0,0,0,0,0,0,0,0,0,0,0],[0,0,0,0,0,0,0,0,0,0,0,0,0,0,0,0,0,0,0,0,0,0,0,0,0,0,0,0,0,0,0,0,0,0,0,0,0,0,0,0,0,0],[0,0,0,0,0,0,0,0,0,0,0,0,0,0,0,0,0,0,0,0,0,0,0,0,0,0,0,0,0,0,0,0,0,0,0,0,0,0,0,0,0,0],[0,0,0,0,0,0,0,0,0,0,0,0,0,0,0,0,0,0,0,0,0,0,0,0,0,0,0,0,0,0,0,0,0,0,0,0,0,0,0,0,0,0],[0,0,0,0,0,0,0,0,0,0,0,0,0,0,0,0,0,0,0,0,0,0,0,0,0,0,0,0,0,0,0,0,0,0,0,0,0,0,0,0,0,0],[0,0,0,0,0,0,0,0,0,0,0,0,0,0,0,0,0,0,0,0,0,0,0,0,0,0,0,0,0,0,0,0,0,0,0,0,0,0,0,0,0,0],[0,0,0,0,0,0,0,0,0,0,0,0,0,0,0,0,0,0,0,0,0,0,0,0,0,0,0,0,0,0,0,0,0,0,0,0,0,0,0,0,0,0]]},{"name":"collision","width":90,"height":24,"linkWithCollision":false,"visible":true,"tilesetName":"","repeat":false,"preRender":false,"distance":1,"tilesize":16,"foreground":false,"data":[[0,0,0,0,0,0,0,0,0,0,0,0,0,0,0,0,0,0,0,0,0,0,0,0,0,0,0,0,0,0,0,0,0,0,0,0,0,0,0,0,0,0,0,0,0,0,0,0,0,0,0,0,0,0,0,0,0,0,0,0,0,0,0,0,0,0,0,0,0,0,0,0,0,0,0,0,0,0,0,0,0,0,0,0,0,0,0,0,0,0],[0,0,0,0,0,0,0,0,0,0,0,0,0,0,0,0,0,0,0,0,0,0,0,0,0,0,0,0,0,0,0,0,0,0,0,0,0,0,0,0,0,0,0,0,0,0,0,0,0,0,0,0,0,0,0,0,0,0,0,0,0,0,0,0,0,0,0,0,0,0,0,0,0,0,0,0,0,0,0,0,0,0,0,0,0,0,0,0,0,0],[0,0,0,0,0,0,0,0,0,0,0,0,0,0,0,0,0,0,0,0,0,0,0,0,0,0,0,0,0,0,0,0,0,0,0,0,0,0,0,0,0,0,0,0,0,0,0,0,0,0,0,0,0,0,0,0,0,0,0,0,0,0,0,0,0,0,0,0,0,0,0,0,0,0,0,0,0,0,0,0,0,0,0,0,0,0,0,0,0,0],[0,0,0,0,0,0,0,0,0,0,0,0,0,0,0,0,0,0,0,0,0,0,0,0,0,0,0,0,0,0,0,0,0,0,0,0,0,0,0,0,0,0,0,0,0,0,0,0,0,0,0,0,0,0,0,0,0,0,0,0,0,0,0,0,0,0,0,0,0,0,0,0,0,0,0,0,0,0,0,0,0,0,0,0,0,0,0,0,0,0],[0,0,0,0,0,0,0,0,0,0,0,0,0,0,0,0,0,0,0,0,0,0,0,0,0,0,0,0,0,0,0,0,0,0,0,0,0,0,0,0,0,0,0,0,0,0,0,0,0,0,0,0,0,0,0,0,0,0,0,0,0,0,0,0,0,0,0,0,0,0,0,0,0,0,0,0,0,0,0,0,0,0,0,0,0,0,0,0,0,0],[0,0,0,0,0,0,0,0,0,0,0,0,0,0,0,0,0,0,0,0,0,0,0,0,0,0,0,0,0,0,0,0,0,0,0,0,0,0,0,0,0,0,0,0,0,0,0,0,0,0,0,0,0,0,0,0,0,0,0,0,0,0,0,0,0,0,0,0,0,0,0,0,0,0,0,0,0,0,0,0,0,0,0,0,0,0,0,0,0,0],[0,0,0,0,0,0,0,0,0,0,0,0,0,0,0,0,0,0,0,0,0,0,0,0,0,0,0,0,0,0,0,0,0,0,0,0,0,0,0,0,0,0,0,0,0,0,0,0,0,0,0,0,0,0,0,0,0,0,0,0,0,0,0,0,0,0,0,0,0,0,0,0,0,0,0,0,0,0,0,0,0,0,0,0,0,0,0,0,0,0],[0,0,0,0,0,0,0,0,0,0,0,0,0,0,0,0,0,0,0,0,0,0,0,0,0,0,0,0,0,0,0,0,0,0,0,0,0,0,0,0,0,0,0,0,0,0,0,0,0,0,0,0,0,0,0,0,0,0,0,0,0,0,0,0,0,0,0,0,0,0,0,0,0,0,0,0,0,0,0,0,0,0,0,0,0,0,0,0,0,0],[0,0,0,0,0,0,0,0,0,0,0,0,0,0,0,0,0,0,0,0,0,0,0,0,0,0,0,0,0,0,0,0,0,0,0,0,0,0,0,0,0,0,0,0,0,0,0,0,0,0,0,0,0,0,0,0,0,0,0,0,0,0,0,0,0,0,0,0,0,0,0,0,0,0,0,0,0,0,0,0,0,0,0,0,0,0,0,0,0,0],[0,0,0,0,0,0,0,0,0,0,0,0,0,0,0,0,0,0,0,0,0,0,0,0,0,0,0,0,0,0,0,0,0,0,0,0,0,0,0,0,0,0,0,0,0,0,0,0,0,0,0,0,0,0,0,0,0,0,0,0,0,0,0,0,0,0,0,0,0,0,0,0,0,0,0,0,0,0,0,0,0,0,0,0,0,0,0,0,0,0],[0,0,0,0,0,0,0,0,0,0,0,0,0,0,0,0,0,0,0,0,0,0,0,0,0,0,0,0,0,0,0,0,0,0,0,0,0,0,0,0,0,0,0,0,0,0,0,0,0,0,0,0,0,0,0,0,0,0,0,0,0,0,0,0,0,0,0,0,0,0,0,0,0,0,0,0,0,0,0,0,0,0,0,0,0,0,0,0,0,0],[0,0,0,0,0,0,0,0,0,0,0,0,0,0,0,0,0,0,0,0,0,0,0,0,0,0,0,0,0,0,0,0,0,0,0,0,0,0,0,0,0,0,0,0,0,0,0,0,0,0,0,0,0,0,0,0,0,0,0,0,0,0,0,0,0,0,0,0,0,0,0,0,0,0,0,0,0,0,0,0,0,0,0,0,0,0,0,0,0,0],[0,0,0,0,0,0,0,0,0,0,0,0,0,0,0,0,0,0,0,0,0,0,0,0,0,0,0,0,0,0,0,0,0,0,0,0,0,0,0,0,0,0,0,0,0,0,0,0,0,0,0,0,0,0,0,0,0,0,0,0,0,0,0,0,0,0,0,0,0,0,0,0,0,0,0,0,0,0,0,0,0,0,0,0,0,0,0,0,0,0],[0,0,0,0,0,0,0,0,0,0,0,0,0,0,0,0,0,0,0,0,0,0,0,0,0,0,0,0,0,0,0,0,0,0,0,0,0,0,0,0,0,0,0,0,0,0,0,0,0,0,0,0,0,0,0,0,0,0,0,0,0,0,0,0,0,0,0,0,0,0,0,0,0,0,0,0,0,0,0,0,0,0,0,0,0,0,0,0,0,0],[0,0,0,0,0,0,0,0,0,0,0,0,0,0,0,0,0,0,0,0,0,0,0,0,0,0,0,0,0,0,0,0,0,0,0,0,0,0,0,0,0,0,0,0,0,0,0,0,0,0,0,0,0,0,0,0,0,0,0,0,0,0,0,0,0,0,0,0,0,0,0,0,0,0,0,0,0,0,0,0,0,0,0,0,0,0,0,0,0,0],[1,1,1,1,1,1,1,1,1,1,1,1,1,1,1,1,1,1,1,1,1,1,1,1,1,1,1,1,0,0,0,0,0,0,0,0,0,0,0,0,0,0,0,0,0,0,0,0,0,0,0,0,0,0,0,0,0,0,0,0,0,0,0,0,0,0,0,0,0,0,0,0,0,0,0,0,0,0,0,0,0,0,0,0,0,0,0,0,0,0],[1,0,0,0,0,0,0,0,0,0,0,0,0,0,0,0,0,0,0,0,0,0,0,0,0,0,0,1,0,0,0,0,0,0,0,0,0,0,0,0,0,0,0,0,0,0,0,0,0,0,0,0,0,0,0,0,0,0,0,0,0,0,0,0,0,0,0,0,0,0,0,0,0,0,0,0,0,0,0,0,0,0,0,0,0,0,0,0,0,0],[1,0,0,0,0,0,0,0,0,0,0,0,0,0,0,0,0,0,0,0,0,0,0,0,0,0,0,1,0,0,0,0,0,0,0,0,0,0,0,0,0,0,0,0,0,0,0,0,0,0,0,0,0,0,0,0,0,0,0,0,0,0,0,0,0,0,0,0,0,0,0,0,0,0,0,0,0,0,0,0,0,0,0,0,0,0,0,0,0,0],[0,0,0,0,0,0,0,0,0,0,0,0,0,0,0,0,0,0,0,0,0,0,0,0,0,0,0,0,0,0,0,0,0,0,0,0,0,0,0,0,0,0,0,0,0,0,0,0,0,0,0,0,0,0,0,0,0,0,0,0,0,0,0,0,0,0,0,0,0,0,0,0,0,0,0,0,0,0,0,0,0,0,0,0,0,0,0,0,0,0],[0,0,0,0,0,0,0,0,0,0,0,0,0,0,0,0,0,0,0,0,0,0,0,0,0,0,0,0,0,0,0,0,0,0,0,0,0,0,0,0,0,0,0,0,0,0,0,0,0,0,0,0,0,0,0,0,0,0,0,0,0,0,0,0,0,0,0,0,0,0,0,0,0,0,0,0,0,0,0,0,0,0,0,0,0,0,0,0,0,0],[0,0,0,0,0,0,0,0,0,0,0,0,0,0,0,0,0,0,0,0,0,0,0,0,0,0,0,0,0,0,0,0,0,0,0,0,0,0,0,0,0,0,0,0,0,0,0,0,0,0,0,0,0,0,0,0,0,0,0,0,0,0,0,0,0,0,0,0,0,0,0,0,0,0,0,0,0,0,0,0,0,0,0,0,0,0,0,0,0,0],[0,0,0,0,0,0,0,0,0,0,0,0,0,0,0,0,0,0,0,0,0,0,0,0,0,0,0,0,0,0,0,0,0,0,0,0,0,0,0,0,0,0,0,0,0,0,0,0,0,0,0,0,0,0,0,0,0,0,0,0,0,0,0,0,0,0,0,0,0,0,0,0,0,0,0,0,0,0,0,0,0,0,0,0,0,0,0,0,0,0],[0,0,0,0,0,0,0,0,0,0,0,0,0,0,0,0,0,0,0,0,0,0,0,0,0,0,0,0,0,0,0,0,0,0,0,0,0,0,0,0,0,0,0,0,0,0,0,0,0,0,0,0,0,0,0,0,0,0,0,0,0,0,0,0,0,0,0,0,0,0,0,0,0,0,0,0,0,0,0,0,0,0,0,0,0,0,0,0,0,0],[0,0,0,0,0,0,0,0,0,0,0,0,0,0,0,0,0,0,0,0,0,0,0,0,0,0,0,0,0,0,0,0,0,0,0,0,0,0,0,0,0,0,0,0,0,0,0,0,0,0,0,0,0,0,0,0,0,0,0,0,0,0,0,0,0,0,0,0,0,0,0,0,0,0,0,0,0,0,0,0,0,0,0,0,0,0,0,0,0,0]]}]}/*]JSON*/;
+LevelE1m1=/*JSON[*/{"entities":[{"type":"EntityCheckpointStart","x":24,"y":212,"settings":{"name":"levelStart"}},{"type":"EntityLevelchange","x":416,"y":176,"settings":{"size":{"x":16,"y":60},"levelName":"e1m2","playerSpawnerName":"levelStart"}}],"layer":[{"name":"terrain","width":42,"height":15,"linkWithCollision":false,"visible":1,"tilesetName":"media/gfx/maps/forest.png","repeat":false,"preRender":false,"distance":"1","tilesize":32,"foreground":false,"data":[[0,0,0,0,0,0,0,0,0,0,0,0,0,0,0,0,0,0,0,0,0,0,0,0,0,0,0,0,0,0,0,0,0,0,0,0,0,0,0,0,0,0],[0,0,0,0,0,0,0,0,0,0,0,0,0,0,0,0,0,0,0,0,0,0,0,0,0,0,0,0,0,0,0,0,0,0,0,0,0,0,0,0,0,0],[0,0,0,0,0,0,0,0,0,0,0,0,0,0,0,0,0,0,0,0,0,0,0,0,0,0,0,0,0,0,0,0,0,0,0,0,0,0,0,0,0,0],[0,0,0,0,0,0,0,0,0,0,0,0,0,0,0,0,0,0,0,0,0,0,0,0,0,0,0,0,0,0,0,0,0,0,0,0,0,0,0,0,0,0],[0,0,0,0,0,0,0,0,0,0,0,0,0,0,0,0,0,0,0,0,0,0,0,0,0,0,0,0,0,0,0,0,0,0,0,0,0,0,0,0,0,0],[0,0,0,0,0,0,0,0,0,0,0,0,0,0,0,0,0,0,0,0,0,0,0,0,0,0,0,0,0,0,0,0,0,0,0,0,0,0,0,0,0,0],[0,0,0,0,0,0,0,0,0,0,0,0,0,0,0,0,0,0,0,0,0,0,0,0,0,0,0,0,0,0,0,0,0,0,0,0,0,0,0,0,0,0],[1,2,2,2,2,2,2,2,2,2,2,2,2,4,0,0,0,0,0,0,0,0,0,0,0,0,0,0,0,0,0,0,0,0,0,0,0,0,0,0,0,0],[5,6,6,6,6,6,6,6,6,6,6,6,6,6,0,0,0,0,0,0,0,0,0,0,0,0,0,0,0,0,0,0,0,0,0,0,0,0,0,0,0,0],[0,0,0,0,0,0,0,0,0,0,0,0,0,0,0,0,0,0,0,0,0,0,0,0,0,0,0,0,0,0,0,0,0,0,0,0,0,0,0,0,0,0],[0,0,0,0,0,0,0,0,0,0,0,0,0,0,0,0,0,0,0,0,0,0,0,0,0,0,0,0,0,0,0,0,0,0,0,0,0,0,0,0,0,0],[0,0,0,0,0,0,0,0,0,0,0,0,0,0,0,0,0,0,0,0,0,0,0,0,0,0,0,0,0,0,0,0,0,0,0,0,0,0,0,0,0,0],[0,0,0,0,0,0,0,0,0,0,0,0,0,0,0,0,0,0,0,0,0,0,0,0,0,0,0,0,0,0,0,0,0,0,0,0,0,0,0,0,0,0],[0,0,0,0,0,0,0,0,0,0,0,0,0,0,0,0,0,0,0,0,0,0,0,0,0,0,0,0,0,0,0,0,0,0,0,0,0,0,0,0,0,0],[0,0,0,0,0,0,0,0,0,0,0,0,0,0,0,0,0,0,0,0,0,0,0,0,0,0,0,0,0,0,0,0,0,0,0,0,0,0,0,0,0,0]]},{"name":"collision","width":90,"height":24,"linkWithCollision":false,"visible":1,"tilesetName":"","repeat":false,"preRender":false,"distance":1,"tilesize":16,"foreground":false,"data":[[0,0,0,0,0,0,0,0,0,0,0,0,0,0,0,0,0,0,0,0,0,0,0,0,0,0,0,0,0,0,0,0,0,0,0,0,0,0,0,0,0,0,0,0,0,0,0,0,0,0,0,0,0,0,0,0,0,0,0,0,0,0,0,0,0,0,0,0,0,0,0,0,0,0,0,0,0,0,0,0,0,0,0,0,0,0,0,0,0,0],[0,0,0,0,0,0,0,0,0,0,0,0,0,0,0,0,0,0,0,0,0,0,0,0,0,0,0,0,0,0,0,0,0,0,0,0,0,0,0,0,0,0,0,0,0,0,0,0,0,0,0,0,0,0,0,0,0,0,0,0,0,0,0,0,0,0,0,0,0,0,0,0,0,0,0,0,0,0,0,0,0,0,0,0,0,0,0,0,0,0],[0,0,0,0,0,0,0,0,0,0,0,0,0,0,0,0,0,0,0,0,0,0,0,0,0,0,0,0,0,0,0,0,0,0,0,0,0,0,0,0,0,0,0,0,0,0,0,0,0,0,0,0,0,0,0,0,0,0,0,0,0,0,0,0,0,0,0,0,0,0,0,0,0,0,0,0,0,0,0,0,0,0,0,0,0,0,0,0,0,0],[0,0,0,0,0,0,0,0,0,0,0,0,0,0,0,0,0,0,0,0,0,0,0,0,0,0,0,0,0,0,0,0,0,0,0,0,0,0,0,0,0,0,0,0,0,0,0,0,0,0,0,0,0,0,0,0,0,0,0,0,0,0,0,0,0,0,0,0,0,0,0,0,0,0,0,0,0,0,0,0,0,0,0,0,0,0,0,0,0,0],[0,0,0,0,0,0,0,0,0,0,0,0,0,0,0,0,0,0,0,0,0,0,0,0,0,0,0,0,0,0,0,0,0,0,0,0,0,0,0,0,0,0,0,0,0,0,0,0,0,0,0,0,0,0,0,0,0,0,0,0,0,0,0,0,0,0,0,0,0,0,0,0,0,0,0,0,0,0,0,0,0,0,0,0,0,0,0,0,0,0],[0,0,0,0,0,0,0,0,0,0,0,0,0,0,0,0,0,0,0,0,0,0,0,0,0,0,0,0,0,0,0,0,0,0,0,0,0,0,0,0,0,0,0,0,0,0,0,0,0,0,0,0,0,0,0,0,0,0,0,0,0,0,0,0,0,0,0,0,0,0,0,0,0,0,0,0,0,0,0,0,0,0,0,0,0,0,0,0,0,0],[0,0,0,0,0,0,0,0,0,0,0,0,0,0,0,0,0,0,0,0,0,0,0,0,0,0,0,0,0,0,0,0,0,0,0,0,0,0,0,0,0,0,0,0,0,0,0,0,0,0,0,0,0,0,0,0,0,0,0,0,0,0,0,0,0,0,0,0,0,0,0,0,0,0,0,0,0,0,0,0,0,0,0,0,0,0,0,0,0,0],[0,0,0,0,0,0,0,0,0,0,0,0,0,0,0,0,0,0,0,0,0,0,0,0,0,0,0,0,0,0,0,0,0,0,0,0,0,0,0,0,0,0,0,0,0,0,0,0,0,0,0,0,0,0,0,0,0,0,0,0,0,0,0,0,0,0,0,0,0,0,0,0,0,0,0,0,0,0,0,0,0,0,0,0,0,0,0,0,0,0],[0,0,0,0,0,0,0,0,0,0,0,0,0,0,0,0,0,0,0,0,0,0,0,0,0,0,0,0,0,0,0,0,0,0,0,0,0,0,0,0,0,0,0,0,0,0,0,0,0,0,0,0,0,0,0,0,0,0,0,0,0,0,0,0,0,0,0,0,0,0,0,0,0,0,0,0,0,0,0,0,0,0,0,0,0,0,0,0,0,0],[0,0,0,0,0,0,0,0,0,0,0,0,0,0,0,0,0,0,0,0,0,0,0,0,0,0,0,0,0,0,0,0,0,0,0,0,0,0,0,0,0,0,0,0,0,0,0,0,0,0,0,0,0,0,0,0,0,0,0,0,0,0,0,0,0,0,0,0,0,0,0,0,0,0,0,0,0,0,0,0,0,0,0,0,0,0,0,0,0,0],[0,0,0,0,0,0,0,0,0,0,0,0,0,0,0,0,0,0,0,0,0,0,0,0,0,0,0,0,0,0,0,0,0,0,0,0,0,0,0,0,0,0,0,0,0,0,0,0,0,0,0,0,0,0,0,0,0,0,0,0,0,0,0,0,0,0,0,0,0,0,0,0,0,0,0,0,0,0,0,0,0,0,0,0,0,0,0,0,0,0],[0,0,0,0,0,0,0,0,0,0,0,0,0,0,0,0,0,0,0,0,0,0,0,0,0,0,0,0,0,0,0,0,0,0,0,0,0,0,0,0,0,0,0,0,0,0,0,0,0,0,0,0,0,0,0,0,0,0,0,0,0,0,0,0,0,0,0,0,0,0,0,0,0,0,0,0,0,0,0,0,0,0,0,0,0,0,0,0,0,0],[0,0,0,0,0,0,0,0,0,0,0,0,0,0,0,0,0,0,0,0,0,0,0,0,0,0,0,0,0,0,0,0,0,0,0,0,0,0,0,0,0,0,0,0,0,0,0,0,0,0,0,0,0,0,0,0,0,0,0,0,0,0,0,0,0,0,0,0,0,0,0,0,0,0,0,0,0,0,0,0,0,0,0,0,0,0,0,0,0,0],[0,0,0,0,0,0,0,0,0,0,0,0,0,0,0,0,0,0,0,0,0,0,0,0,0,0,0,0,0,0,0,0,0,0,0,0,0,0,0,0,0,0,0,0,0,0,0,0,0,0,0,0,0,0,0,0,0,0,0,0,0,0,0,0,0,0,0,0,0,0,0,0,0,0,0,0,0,0,0,0,0,0,0,0,0,0,0,0,0,0],[0,0,0,0,0,0,0,0,0,0,0,0,0,0,0,0,0,0,0,0,0,0,0,0,0,0,0,0,0,0,0,0,0,0,0,0,0,0,0,0,0,0,0,0,0,0,0,0,0,0,0,0,0,0,0,0,0,0,0,0,0,0,0,0,0,0,0,0,0,0,0,0,0,0,0,0,0,0,0,0,0,0,0,0,0,0,0,0,0,0],[1,1,1,1,1,1,1,1,1,1,1,1,1,1,1,1,1,1,1,1,1,1,1,1,1,1,1,1,0,0,0,0,0,0,0,0,0,0,0,0,0,0,0,0,0,0,0,0,0,0,0,0,0,0,0,0,0,0,0,0,0,0,0,0,0,0,0,0,0,0,0,0,0,0,0,0,0,0,0,0,0,0,0,0,0,0,0,0,0,0],[1,0,0,0,0,0,0,0,0,0,0,0,0,0,0,0,0,0,0,0,0,0,0,0,0,0,0,1,0,0,0,0,0,0,0,0,0,0,0,0,0,0,0,0,0,0,0,0,0,0,0,0,0,0,0,0,0,0,0,0,0,0,0,0,0,0,0,0,0,0,0,0,0,0,0,0,0,0,0,0,0,0,0,0,0,0,0,0,0,0],[1,0,0,0,0,0,0,0,0,0,0,0,0,0,0,0,0,0,0,0,0,0,0,0,0,0,0,1,0,0,0,0,0,0,0,0,0,0,0,0,0,0,0,0,0,0,0,0,0,0,0,0,0,0,0,0,0,0,0,0,0,0,0,0,0,0,0,0,0,0,0,0,0,0,0,0,0,0,0,0,0,0,0,0,0,0,0,0,0,0],[0,0,0,0,0,0,0,0,0,0,0,0,0,0,0,0,0,0,0,0,0,0,0,0,0,0,0,0,0,0,0,0,0,0,0,0,0,0,0,0,0,0,0,0,0,0,0,0,0,0,0,0,0,0,0,0,0,0,0,0,0,0,0,0,0,0,0,0,0,0,0,0,0,0,0,0,0,0,0,0,0,0,0,0,0,0,0,0,0,0],[0,0,0,0,0,0,0,0,0,0,0,0,0,0,0,0,0,0,0,0,0,0,0,0,0,0,0,0,0,0,0,0,0,0,0,0,0,0,0,0,0,0,0,0,0,0,0,0,0,0,0,0,0,0,0,0,0,0,0,0,0,0,0,0,0,0,0,0,0,0,0,0,0,0,0,0,0,0,0,0,0,0,0,0,0,0,0,0,0,0],[0,0,0,0,0,0,0,0,0,0,0,0,0,0,0,0,0,0,0,0,0,0,0,0,0,0,0,0,0,0,0,0,0,0,0,0,0,0,0,0,0,0,0,0,0,0,0,0,0,0,0,0,0,0,0,0,0,0,0,0,0,0,0,0,0,0,0,0,0,0,0,0,0,0,0,0,0,0,0,0,0,0,0,0,0,0,0,0,0,0],[0,0,0,0,0,0,0,0,0,0,0,0,0,0,0,0,0,0,0,0,0,0,0,0,0,0,0,0,0,0,0,0,0,0,0,0,0,0,0,0,0,0,0,0,0,0,0,0,0,0,0,0,0,0,0,0,0,0,0,0,0,0,0,0,0,0,0,0,0,0,0,0,0,0,0,0,0,0,0,0,0,0,0,0,0,0,0,0,0,0],[0,0,0,0,0,0,0,0,0,0,0,0,0,0,0,0,0,0,0,0,0,0,0,0,0,0,0,0,0,0,0,0,0,0,0,0,0,0,0,0,0,0,0,0,0,0,0,0,0,0,0,0,0,0,0,0,0,0,0,0,0,0,0,0,0,0,0,0,0,0,0,0,0,0,0,0,0,0,0,0,0,0,0,0,0,0,0,0,0,0],[0,0,0,0,0,0,0,0,0,0,0,0,0,0,0,0,0,0,0,0,0,0,0,0,0,0,0,0,0,0,0,0,0,0,0,0,0,0,0,0,0,0,0,0,0,0,0,0,0,0,0,0,0,0,0,0,0,0,0,0,0,0,0,0,0,0,0,0,0,0,0,0,0,0,0,0,0,0,0,0,0,0,0,0,0,0,0,0,0,0]]}]}/*]JSON*/;
 LevelE1m1Resources=[new ig.Image('media/gfx/maps/forest.png')];
 });
